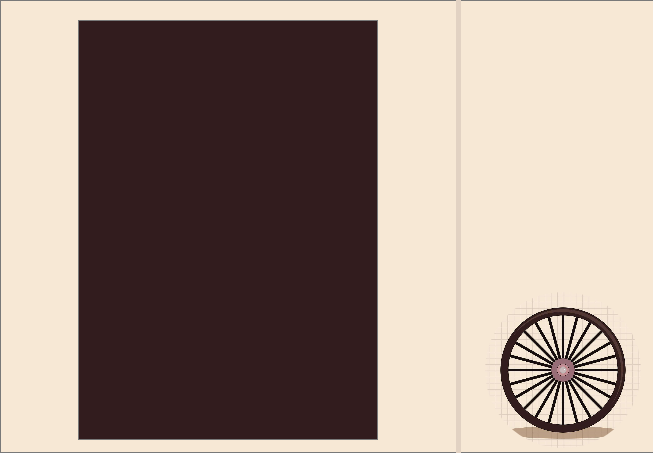
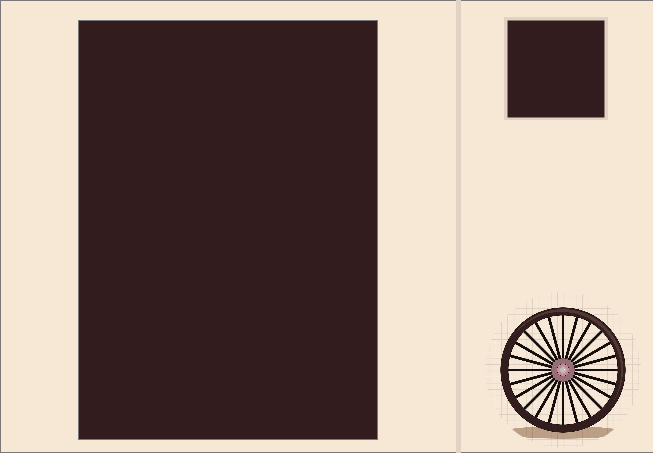
进行了布局上的微调

Changed region(s): [[0.7645, 0.0309, 0.948, 0.2781]]

diff --git a/Sources/UI/QWidgetsTest/board.cpp b/Sources/UI/QWidgetsTest/board.cpp
@@ -367,8 +367,8 @@ void board::paintBoard(const QPointF &BoardPos)  //画面刷新
                 bShape = numToShape(pBlocks[times].block->get_number());
                 OneBlock = new block(bShape); //数字块图形构造
             }
-            OneBlock->setPos((times/DE_BOARD_ROW)*DE_BLOCKLENGTH + DE_BOARD_XPOS - 1.5,
-                             (DE_BOARD_ROW - times%DE_BOARD_ROW - 1)*DE_BLOCKLENGTH + DE_BOARD_YPOS - 1.5);    //方块位置设置
+            OneBlock->setPos((times/DE_BOARD_ROW)*DE_BLOCKLENGTH + DE_BOARD_XPOS - 2,
+                             (DE_BOARD_ROW - times%DE_BOARD_ROW - 1)*DE_BLOCKLENGTH + DE_BOARD_YPOS);    //方块位置设置
             addToGroup(OneBlock);
         }
     }

diff --git a/Sources/UI/QWidgetsTest/public.h b/Sources/UI/QWidgetsTest/public.h
@@ -51,8 +51,8 @@ typedef enum blockShape{ en_empty,
 #define DE_BOARD_YPOS 20
 
 //下一块方块的坐标
-#define DE_NEXT_XPOS 525
-#define DE_NEXT_YPOS 20
+#define DE_NEXT_XPOS 527
+#define DE_NEXT_YPOS 38
 
 //棋盘行列长度宏定义
 #define DE_BOARD_ROW 7
